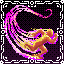
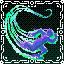
content: Nukitsuke

diff --git a/src/cards/nukitsuke.ts b/src/cards/nukitsuke.ts
@@ -1,0 +1,59 @@
+import { getCurrentTargets, Spell } from './index';
+import { CardCategory } from '../types/commonTypes';
+import { playDefaultSpellSFX } from './cardUtils';
+import { CardRarity, probabilityMap } from '../types/commonTypes';
+import { forcePushToDestination } from '../effects/force_move';
+import { getColumnPoints } from './target_column';
+import { drawUIPolyPrediction } from '../graphics/PlanningView';
+import { normalizedVector } from '../jmath/moveWithCollision';
+import * as config from '../config';
+import { distance } from '../jmath/math';
+import { dash_id } from './dash';
+import { isVec2InsidePolygon } from '../jmath/Polygon2';
+import { isUnit, takeDamage, IUnit } from '../entity/Unit';
+
+const damage = 60;
+export const nukitsuke_id = 'Nukitsuke';
+const spell: Spell = {
+  card: {
+    id: nukitsuke_id,
+    requires: [dash_id],
+    category: CardCategory.Movement,
+    supportQuantity: true,
+    sfx: 'dash',
+    manaCost: 10,
+    healthCost: 0,
+    expenseScaling: 1,
+    probability: probabilityMap[CardRarity.RARE],
+    thumbnail: 'spellIconNukitsuke.png',
+    description: 'spell_nukitsuke',
+    effect: async (state, card, quantity, underworld, prediction) => {
+      const targets = getCurrentTargets(state);
+      playDefaultSpellSFX(card, prediction);
+      if (targets[0]) {
+        const vector = normalizedVector(state.casterUnit, targets[0]).vector || { x: 0, y: 0 };
+        const width = config.COLLISION_MESH_RADIUS / 2;
+        const depth = distance(state.casterUnit, targets[0]);
+        const targetingColumn = getColumnPoints(state.casterUnit, vector, width, depth);
+        const withinColumn: IUnit[] = underworld.getPotentialTargets(
+          prediction
+        ).filter(t => {
+          return isVec2InsidePolygon(t, targetingColumn);
+        }).flatMap(t => isUnit(t) ? [t] : []);
+
+        await forcePushToDestination(state.casterUnit, targets[0], quantity, underworld, prediction, state.casterUnit);
+
+        for (let unit of withinColumn) {
+          takeDamage({
+            unit: unit,
+            amount: damage,
+            sourceUnit: state.casterUnit,
+            fromVec2: state.casterUnit,
+          }, underworld, prediction);
+        }
+      }
+      return state;
+    },
+  },
+};
+export default spell;

diff --git a/src/cards/index.ts b/src/cards/index.ts
@@ -124,6 +124,7 @@ import cursify from './cursify';
 import teach from './teach';
 import sell from './sell';
 import novas from './novas';
+import nukitsuke from './nukitsuke';
 // Not used as a card, for making half of looped enemies immune
 // on first turn
 import registerSummoningSickness from '../modifierSummoningSickness';
@@ -445,6 +446,7 @@ export function registerCards(overworld: Overworld) {
   novas.forEach(nova =>
     registerSpell(nova, overworld)
   );
+  registerSpell(nukitsuke, overworld);
 
   // Blessings
   registerSpell(heal, overworld);

diff --git a/src/cards/target_column.ts b/src/cards/target_column.ts
@@ -75,7 +75,7 @@ const spell: Spell = {
     },
   },
 };
-function getColumnPoints(castLocation: Vec2, vector: Vec2, width: number, depth: number): Vec2[] {
+export function getColumnPoints(castLocation: Vec2, vector: Vec2, width: number, depth: number): Vec2[] {
   const p1 = moveAlongVector(castLocation, invert(vector), -width);
   const p2 = moveAlongVector(castLocation, invert(vector), width);
   const p3 = moveAlongVector(p2, vector, depth);
